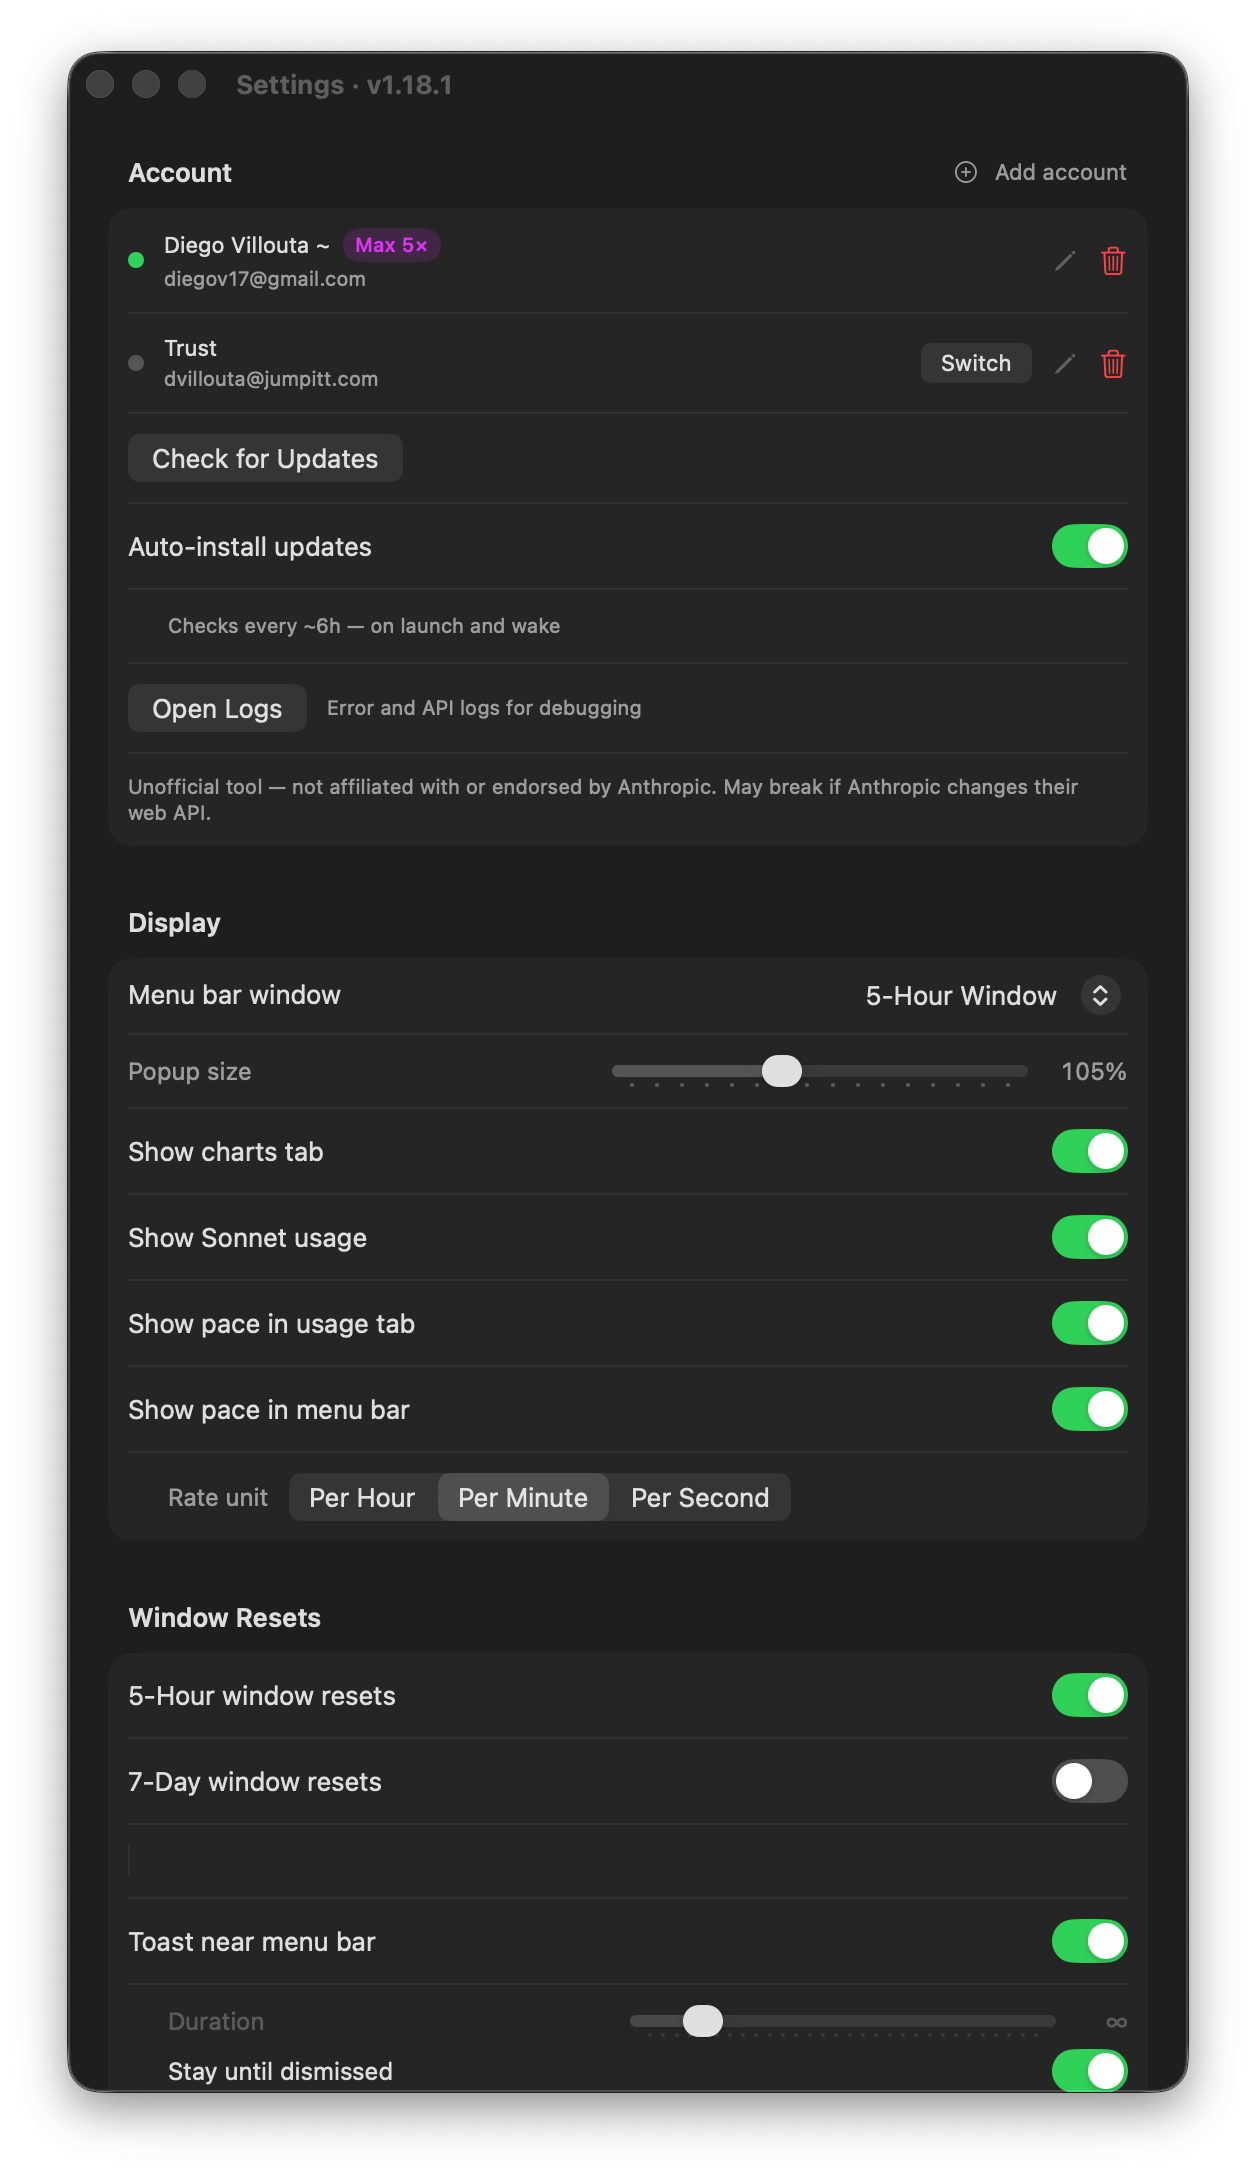
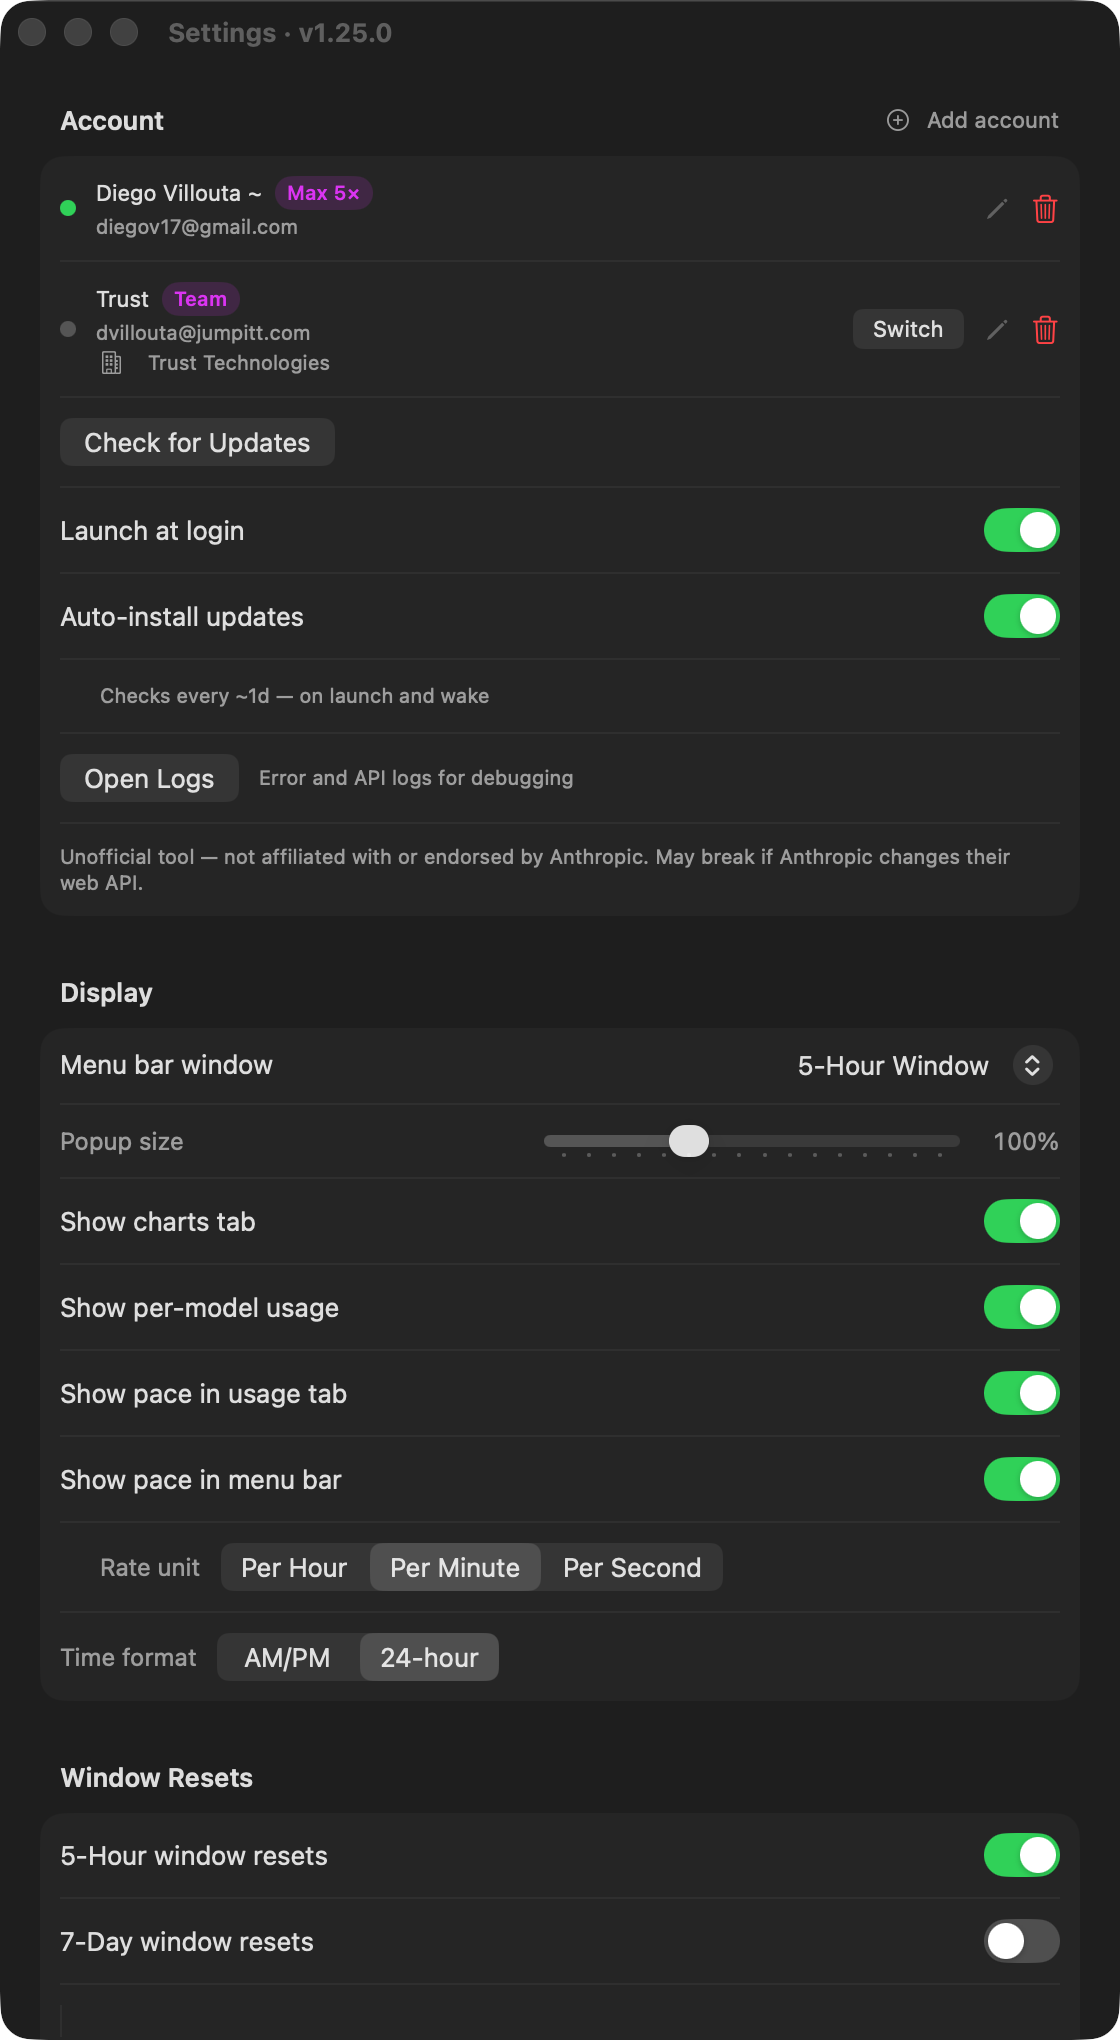
Refresh README screenshots
Recapture all three screenshots on v1.25.0: per-model usage rows,
account picker, absolute reset times, pace warning, forecast charts,
and the new Launch at login toggle in Settings.

diff --git a/README.md b/README.md
@@ -9,7 +9,7 @@ A macOS menu bar app that shows your [Claude AI](https://claude.ai) usage limits
 ## Screenshots
 
 <p align="center">
-  <img src="docs/screenshots/popover-usage.png" width="280" alt="Usage popover showing 5-Hour, 7-Day, and Sonnet windows with pace indicators">
+  <img src="docs/screenshots/popover-usage.png" width="280" alt="Usage popover showing 5-Hour, 7-Day, and per-model windows with pace indicators">
   &nbsp;&nbsp;&nbsp;&nbsp;
   <img src="docs/screenshots/popover-charts.png" width="280" alt="Charts tab with historical utilization, pace, and forecast charts">
 </p>
